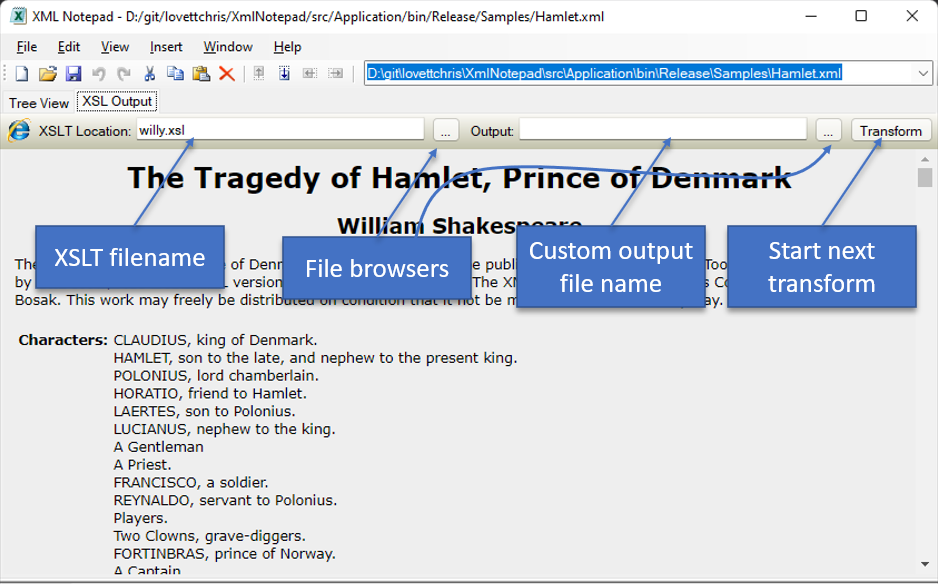
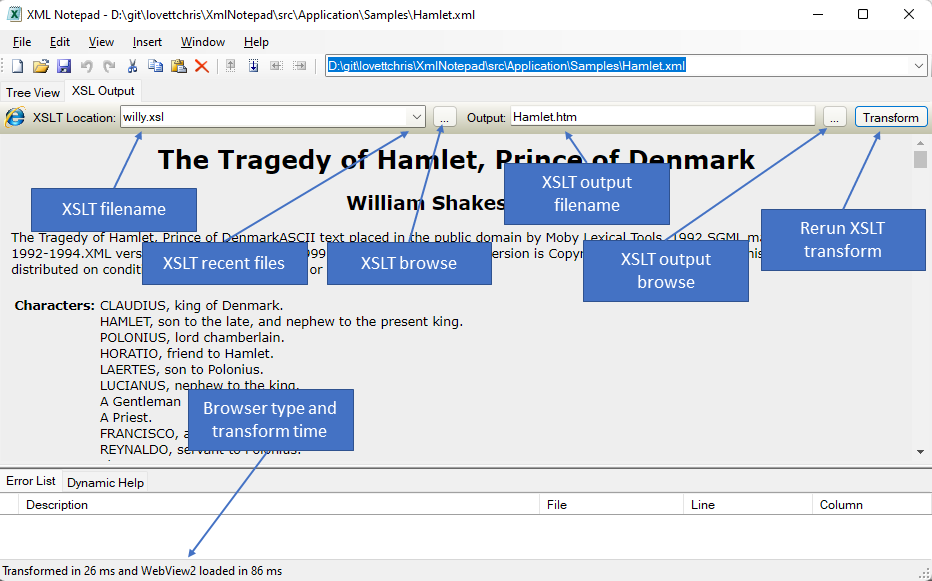
update docs.

diff --git a/docs/help/xslt.md b/docs/help/xslt.md
@@ -15,11 +15,10 @@ You can also enter your own XSLT file name on this tab by changing the
 contents of the XSLT Location field at the top of the XSLT output tab.
 
 By default the HTML output is written to the same folder that contains
-your XML file, but if that folder is not writable it writes to that
-folder it will use your system `%TEMP%` folder.
+your XML file, but if that folder is not writable it writes to your system `%TEMP%` folder.
 
-You can customize the default output file name by adding the following
-additional processing instruction to your XML document:
+You can also customize the default output file name by adding the
+following additional processing instruction to your XML document:
 
 ```xml
 <?xsl-output default="hamlet"?>
@@ -29,7 +28,7 @@ Then depending on the `<?xsl-output method="..."` the appropriate file
 extension will be added.  You can also override this by directly
 editing the Output: text box.  If you modify the XML or XSLT file you
 can press the `Transform` button to perform another XSLT
-transformation and the changes will be rendered.
+transformation and the changes will be rendered and saved.
 
 This tab supports 2 different web browser engines.  The original
 WinForms web browser and the new Chromium based WebView2.  The new
@@ -39,3 +38,6 @@ XML Notepad does not automatically install this new WebView2
 component.  Please see [Microsoft Edge
 WebView2](https://docs.microsoft.com/en-us/DeployOffice/webview2-install)
 for information on how to install this optional component.
+
+You will know it is using WebView2 if you see that name mentioned
+in the status bar.

diff --git a/docs/help/menus.md b/docs/help/menus.md
@@ -24,6 +24,7 @@ The edit menu contains the following commands:
 - **Paste** Parse the XML in the clipboard and create new nodes in the tree under the selected node.
 - **Delete** Delete the selected node.
 - **Insert** Insert a new node of the same type (element, attribute, processing instruction, comment, etc) as the currently selected node.  This makes it easy to build a list of nodes that have the same type.
+- **Rename** Enter edit mode on the current element or attribute so you can rename it (or type Enter key)
 - **Duplicate** Clone the selected node (and its children) and insert the clone as the next sibling.
 - **Change To** Changes the selected node to the specified node type.
 - **Goto Definition** Open the selected XInclude or open the XML Schema that defines the selected node in a new instance of XML Notepad.
@@ -45,6 +46,8 @@ The edit menu contains the following commands:
 - **Source** Show the current XML document in text form using "Notepad".
 - **Options...** Display the [Options Dialog](options.md).
 - **Schemas...** Display the [Schemas Dialog](schemas.md).
+- **Statistics...** Opens a command prompt with the results of running XmlStats.exe on the current file.
+The XmlStats.exe program is in the current working directory so you can play with it further.  Type `XmlStats -?` for help.
 - **Next Error** Navigate to the next error in the list of errors.
 - **Compare XML Files...** Launches XML Diff which compares the current document you are editing with another document on disk and displays the results.
 
